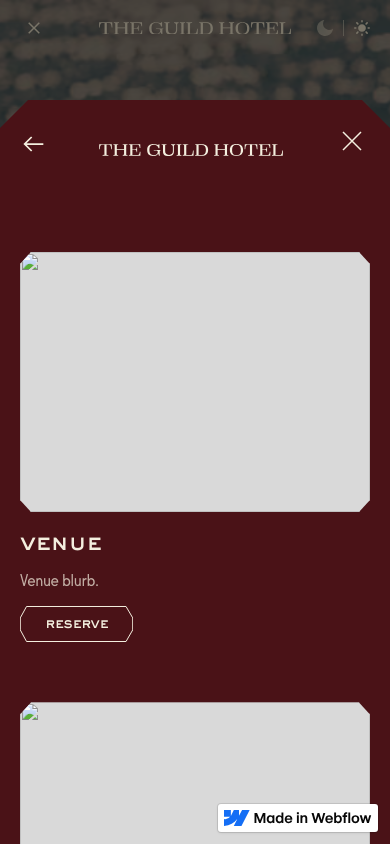
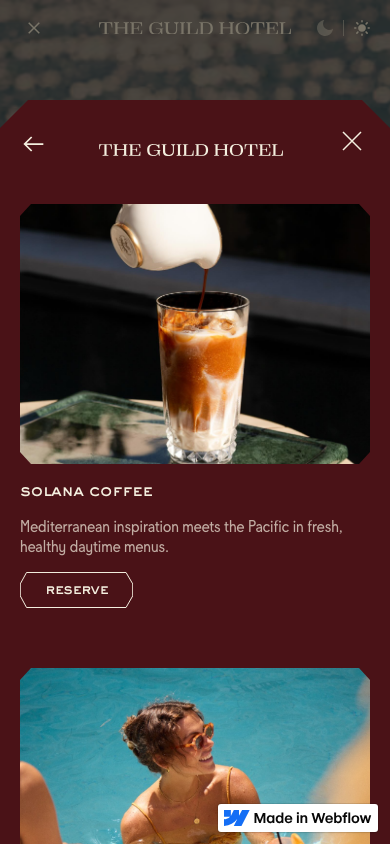
docs(m2): booking menu feedback round 1 (panel centring, chevron, venue background, mobile gaps)

diff --git a/docs/figma/build-plans/M2/plan.md b/docs/figma/build-plans/M2/plan.md
@@ -88,3 +88,12 @@ Staging at 390px and 1440px, pointer and keyboard: open from top bar Book Now (d
 - **Designer step (Stephen):** in the Overlay Detail Panel Modal component, select the Dinings Collection List (inside `_body`, visible on the Image Bg variant with Show venues on) and set Sort: Sort order ascending; bind the item image to Home card image, the title to Name and the text to Home card tagline. The Data API refuses these inside a component definition. Until then the venue cards show placeholders.
 - **Footer URL:** bump the Webflow footer script to the new tag to ship the `modals.ts` fix; until then `#book` clicks also trigger Webflow's anchor scroll.
 - The desktop chevron after "reserve a table" (not built).
+
+## Feedback round 1 (Stephen, 2026-11-03)
+
+Style and prop changes only, no code (live bundle v1.1.19 unchanged). Checked on staging at 1440 and 390 with the live bundle: flow, keyboard, scroll and hash all pass.
+
+1. **Desktop Book Now panel padding, centring, arrow:** the hidden header and column still took up space (header row-gap 6rem pushed the list down). Burgundy and Image Bg now hide `_header` and `_column`; Burgundy `_content` centres the list vertically (list top 139px against Figma 141px in the 434px panel) and centres each option; new **Item 2 arrow** prop shows an 18px chevron after "reserve a table" (desktop only, as in window-1).
+2. **Desktop venue list background:** the dialog's flex row stretched the panel to the viewport height (900px) while the venues ran to 1447px. Image Bg `_component` now aligns items to the start, so the maroon panel grows with the list.
+3. **Mobile stamp to options gap:** a base small rule added `margin-top: 1.75rem` to `_list` and `padding: 14px 0` to `_item`. Both booking variants reset them at medium and small; stamp to first option is now 40px and the option pitch 48px, as in Figma.
+4. **Mobile venue list gap:** same list margin plus the hidden header; first venue now starts 40px below the back, wordmark and close bar, as in Figma.

diff --git a/docs/reference/webflow-ids.md b/docs/reference/webflow-ids.md
@@ -360,3 +360,4 @@ Plan and specs: `docs/figma/build-plans/M2/`.
 - Dinings Template `text-columns-info_footer` `ef08e59e-e1c8-4fa5-2e4a-441796698213`; "browse the menu" `52aa9b80-c93e-4cba-93d4-a8b9a21a9bc0`; "discover {name}" link block `eeea8d64-cd44-b37b-cbe1-36d7c4f43bd8` (href = `venue-site-link`, hidden until a "is set" condition is added), name span `ace5e8eb-31d5-3a08-081e-747b03cb5dbc`.
 - Dinings field ids: Name `70ed532b8264438896ea60b6c714cb42`, Venue site link `f3d113ca4d82d0432a5b95ea45788c6d`.
 - Style ids: `article-card-staggered_component` `1dfea01d-7b6b-d601-1af4-f839882d2c25`, its `is-right` combo `2b5ed087-cb62-4c51-49f1-90ece5e3967f`, `article-card-staggered_header.is-right` `abc99c11-07dd-a77d-609b-1fc1dfa80dc0`, `gallery-all_grid` `8038febe-99b0-d824-f8b3-4583200cc6e2`, `text-columns-info_link` `55f0dad8-f633-e2e9-9636-ec48766ef19d`.
+- Feedback round 1: Overlay Detail Panel Modal prop Item 2 arrow `fdd9647a-7a7b-2c2a-6570-e5fdbf8b8f58` (boolean, default off, on in Booking Menu's Book Now instance); chevron embed `7db7c2d6-1db6-69d4-c57a-a0deaa632c7d` after the item 2 button, class `overlay-detail-panel-modal_item-arrow` `9fb123fc-e2a7-5ac6-f091-882ae05ba5a8` (shown only on Burgundy at desktop).
